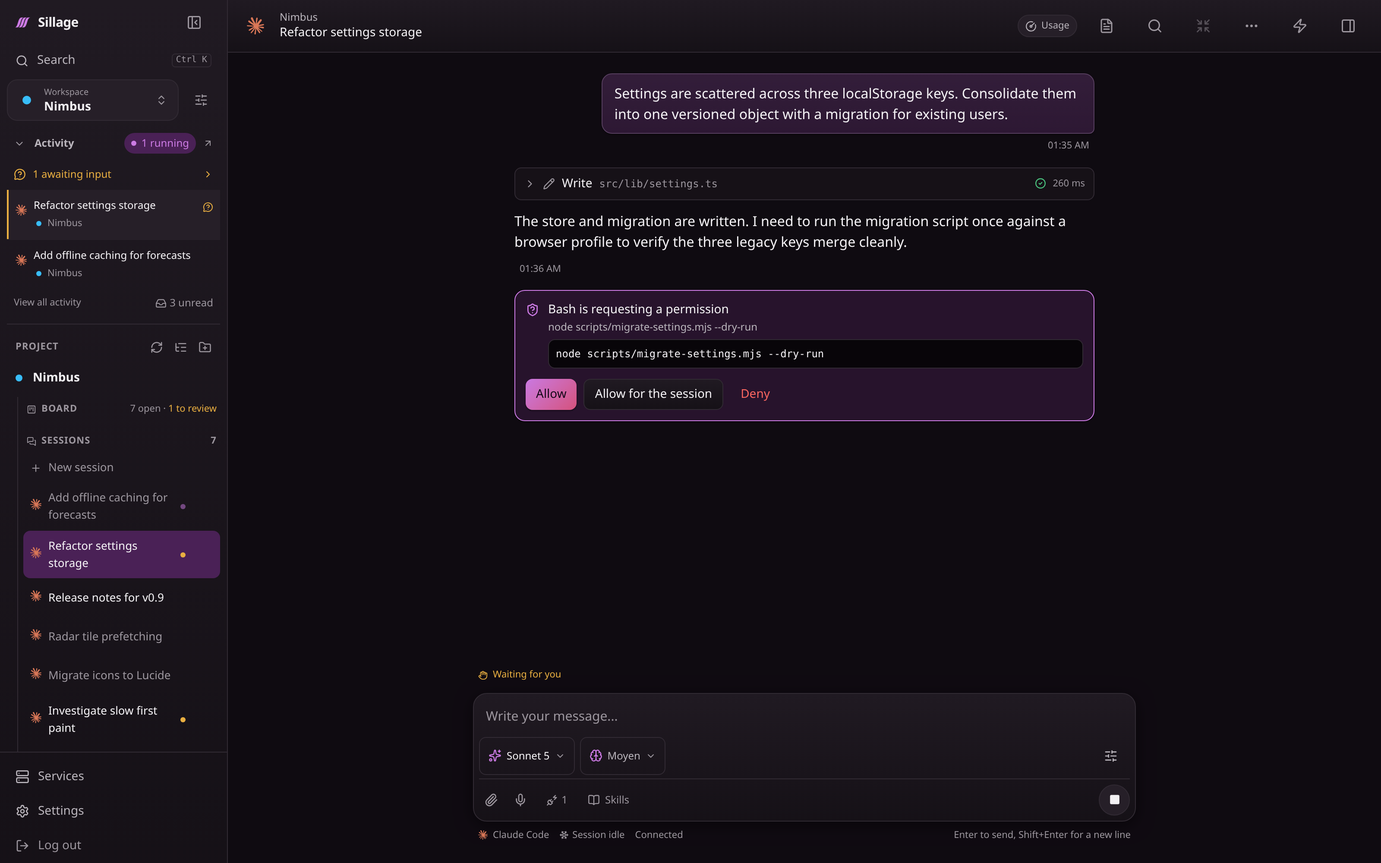
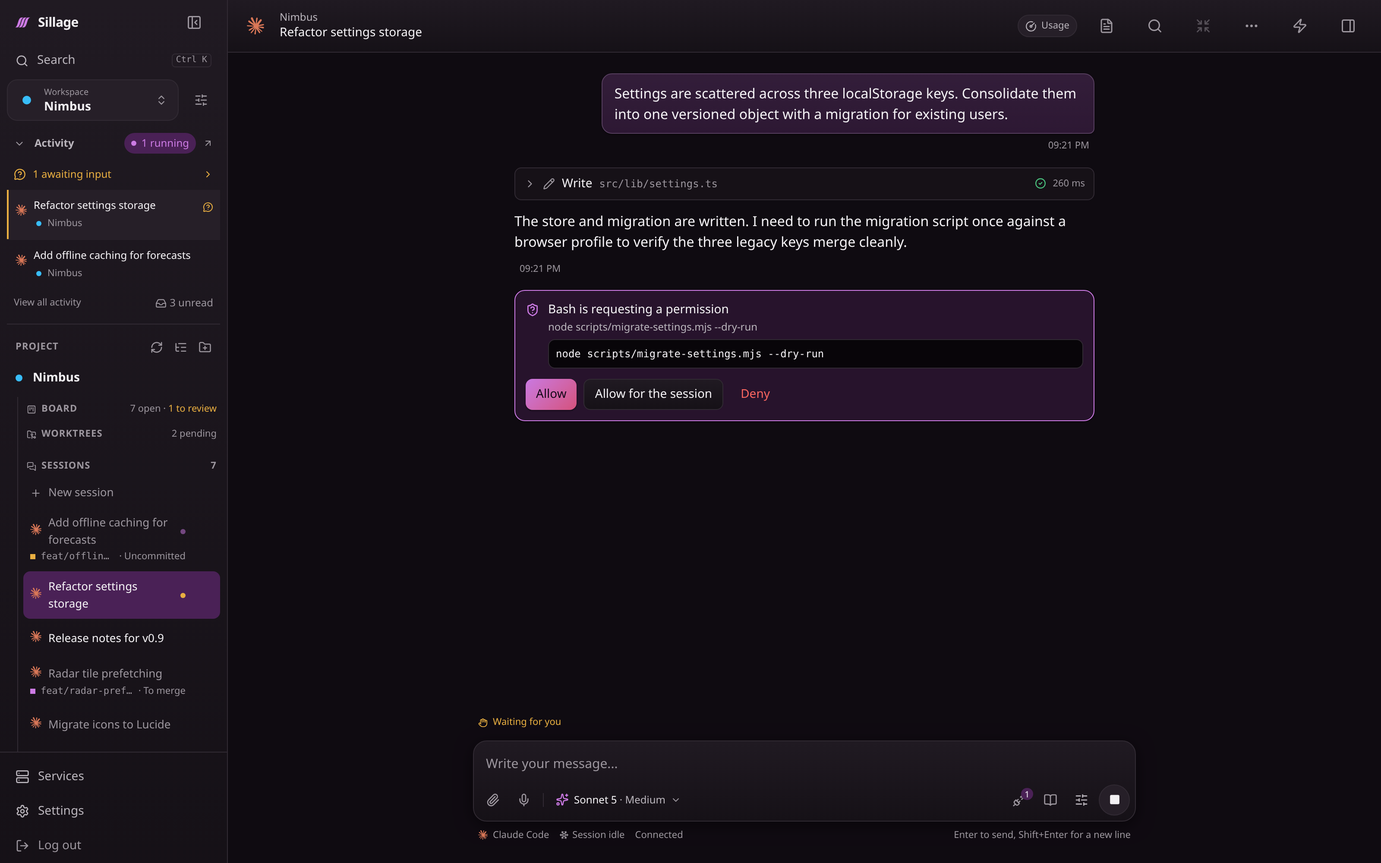
Actualiser le site et le README pour la v0.19.0
Grok Build rejoint les trois autres CLI partout où le site et le README les
citent, avec son logo dans le schéma d'architecture. Les nouveautés depuis
v0.18.0 trouvent leur place : suivi et nettoyage des worktrees, graphe Git,
points de reprise par tour, transfert entre CLI, puce modèle·effort et
visualisateur d'images.

Les 26 captures sont refaites sur la base de démo : le panneau latéral est
désormais un rail d'icônes et le composer a changé, les anciennes montraient
une interface qui n'existe plus. Le script de captures suit le rail (le nom de
l'onglet est son aria-label) et ajoute la vue Chantiers du projet, nouvel onglet
de la visite. Chart Helm aligné sur 0.19.0.

diff --git a/site/index.html b/site/index.html
@@ -4,11 +4,11 @@
   <meta charset="utf-8">
   <title>Sillage · A workspace for coding agents</title>
   <meta name="viewport" content="width=device-width, initial-scale=1">
-  <meta name="description" content="A self-hosted workspace for Claude Code, Codex and OpenCode. Work from any device, connect GitHub issues, automate tasks and choose the account for each session.">
+  <meta name="description" content="A self-hosted workspace for Claude Code, Codex, OpenCode and Grok Build. Work from any device, connect GitHub issues, automate tasks and choose the account for each session.">
   <link rel="icon" href="favicon.svg" type="image/svg+xml">
   <!-- Changer ?v= à chaque modification de style.css ou de main.js : GitHub Pages les laisse
        en cache dix minutes, et une page neuve servie avec une feuille ancienne se casse. -->
-  <link rel="stylesheet" href="style.css?v=automations">
+  <link rel="stylesheet" href="style.css?v=v019">
   <meta name="theme-color" content="#faf7fb" media="(prefers-color-scheme: light)">
   <meta name="theme-color" content="#0f0b11" media="(prefers-color-scheme: dark)">
   <meta property="og:title" content="Sillage">
@@ -85,14 +85,14 @@
         <h1>Keep your work<br>within reach.</h1>
         <div>
           <p class="lede">A workspace for your coding agents.<br>Continue from your phone. Turn issues and events into work. Keep the decisions within reach.</p>
-          <p class="hero-detail">Claude Code, Codex and OpenCode run on your machine, with their native tools and your accounts. Sillage brings the work into your browser.</p>
+          <p class="hero-detail">Claude Code, Codex, OpenCode and Grok Build run on your machine, with their native tools and your accounts. Sillage brings the work into your browser.</p>
           <p class="actions">
             <a class="btn primary" href="#install">Install Sillage <span aria-hidden="true">↗</span></a>
             <a class="text-link" href="https://github.com/MarlBurroW/sillage">Explore the source <span aria-hidden="true">↗</span></a>
           </p>
         </div>
       </div>
-      <div class="hero-meta"><span>Claude Code + Codex + OpenCode</span><span>Linux · macOS · Windows / WSL2 · Docker · Kubernetes</span><a class="release" id="version-badge" href="https://github.com/MarlBurroW/sillage/releases/latest">Releases ↗</a></div>
+      <div class="hero-meta"><span>Claude Code + Codex + OpenCode + Grok Build</span><span>Linux · macOS · Windows / WSL2 · Docker · Kubernetes</span><a class="release" id="version-badge" href="https://github.com/MarlBurroW/sillage/releases/latest">Releases ↗</a></div>
       <figure class="hero-shot hero-film" id="film">
         <div class="film-frame">
           <video controls preload="none" playsinline poster="film/poster.jpg" width="1920" height="1080" data-film>
@@ -141,11 +141,12 @@
             <a class="arch-memory" href="#context"><svg viewBox="0 0 24 24" fill="none" stroke="currentColor" stroke-width="1.5" stroke-linecap="round" stroke-linejoin="round" aria-hidden="true"><path d="M12 5C8 2 4 3 2 4v15c4-2 7-1 10 1 3-2 6-3 10-1V4c-2-1-6-2-10 1Zm0 0v15"/></svg><span>Shared instructions &amp; memory</span></a>
           </div>
           <div class="arch-connector"><span>Starts &amp; follows your agents</span></div>
-          <!-- Logos repris de AgentIcon.tsx : Claude (Simple Icons, CC0), OpenAI (LobeHub, MIT), OpenCode. -->
+          <!-- Logos repris de AgentIcon.tsx : Claude (Simple Icons, CC0), OpenAI et Grok (LobeHub, MIT), OpenCode. -->
           <div class="arch-agents" aria-label="Choose an agent for each conversation">
             <div><span class="arch-agent-logo arch-agent-claude"><svg viewBox="0 0 24 24" fill="currentColor" fill-rule="evenodd" aria-hidden="true"><path d="m4.7144 15.9555 4.7174-2.6471.079-.2307-.079-.1275h-.2307l-.7893-.0486-2.6956-.0729-2.3375-.0971-2.2646-.1214-.5707-.1215-.5343-.7042.0546-.3522.4797-.3218.686.0608 1.5179.1032 2.2767.1578 1.6514.0972 2.4468.255h.3886l.0546-.1579-.1336-.0971-.1032-.0972L6.973 9.8356l-2.55-1.6879-1.3356-.9714-.7225-.4918-.3643-.4614-.1578-1.0078.6557-.7225.8803.0607.2246.0607.8925.686 1.9064 1.4754 2.4893 1.8336.3643.3035.1457-.1032.0182-.0728-.164-.2733-1.3539-2.4467-1.445-2.4893-.6435-1.032-.17-.6194c-.0607-.255-.1032-.4674-.1032-.7285L6.287.1335 6.6997 0l.9957.1336.419.3642.6192 1.4147 1.0018 2.2282 1.5543 3.0296.4553.8985.2429.8318.091.255h.1579v-.1457l.1275-1.706.2368-2.0947.2307-2.6957.0789-.7589.3764-.9107.7468-.4918.5828.2793.4797.686-.0668.4433-.2853 1.8517-.5586 2.9021-.3643 1.9429h.2125l.2429-.2429.9835-1.3053 1.6514-2.0643.7286-.8196.85-.9046.5464-.4311h1.0321l.759 1.1293-.34 1.1657-1.0625 1.3478-.8804 1.1414-1.2628 1.7-.7893 1.36.0729.1093.1882-.0183 2.8535-.607 1.5421-.2794 1.8396-.3157.8318.3886.091.3946-.3278.8075-1.967.4857-2.3072.4614-3.4364.8136-.0425.0304.0486.0607 1.5482.1457.6618.0364h1.621l3.0175.2247.7892.522.4736.6376-.079.4857-1.2142.6193-1.6393-.3886-3.825-.9107-1.3113-.3279h-.1822v.1093l1.0929 1.0686 2.0035 1.8092 2.5075 2.3314.1275.5768-.3218.4554-.34-.0486-2.2039-1.6575-.85-.7468-1.9246-1.621h-.1275v.17l.4432.6496 2.3436 3.5214.1214 1.0807-.17.3521-.6071.2125-.6679-.1214-1.3721-1.9246L14.38 17.959l-1.1414-1.9428-.1397.079-.674 7.2552-.3156.3703-.7286.2793-.6071-.4614-.3218-.7468.3218-1.4753.3886-1.9246.3157-1.53.2853-1.9004.17-.6314-.0121-.0425-.1397.0182-1.4328 1.9672-2.1796 2.9446-1.7243 1.8456-.4128.164-.7164-.3704.0667-.6618.4008-.5889 2.386-3.0357 1.4389-1.882.929-1.0868-.0062-.1579h-.0546l-6.3385 4.1164-1.1293.1457-.4857-.4554.0608-.7467.2307-.2429 1.9064-1.3114Z" /></svg></span><strong>Claude Code</strong></div>
             <div><span class="arch-agent-logo arch-agent-codex"><svg viewBox="0 0 24 24" fill="currentColor" fill-rule="evenodd" aria-hidden="true"><path d="M9.205 8.658v-2.26c0-.19.072-.333.238-.428l4.543-2.616c.619-.357 1.356-.523 2.117-.523 2.854 0 4.662 2.212 4.662 4.566 0 .167 0 .357-.024.547l-4.71-2.759a.797.797 0 00-.856 0l-5.97 3.473zm10.609 8.8V12.06c0-.333-.143-.57-.429-.737l-5.97-3.473 1.95-1.118a.433.433 0 01.476 0l4.543 2.617c1.309.76 2.189 2.378 2.189 3.948 0 1.808-1.07 3.473-2.76 4.163zM7.802 12.703l-1.95-1.142c-.167-.095-.239-.238-.239-.428V5.899c0-2.545 1.95-4.472 4.591-4.472 1 0 1.927.333 2.712.928L8.23 5.067c-.285.166-.428.404-.428.737v6.898zM12 15.128l-2.795-1.57v-3.33L12 8.658l2.795 1.57v3.33L12 15.128zm1.796 7.23c-1 0-1.927-.332-2.712-.927l4.686-2.712c.285-.166.428-.404.428-.737v-6.898l1.974 1.142c.167.095.238.238.238.428v5.233c0 2.545-1.974 4.472-4.614 4.472zm-5.637-5.303l-4.544-2.617c-1.308-.761-2.188-2.378-2.188-3.948A4.482 4.482 0 014.21 6.327v5.423c0 .333.143.571.428.738l5.947 3.449-1.95 1.118a.432.432 0 01-.476 0zm-.262 3.9c-2.688 0-4.662-2.021-4.662-4.519 0-.19.024-.38.047-.57l4.686 2.71c.286.167.571.167.856 0l5.97-3.448v2.26c0 .19-.07.333-.237.428l-4.543 2.616c-.619.357-1.356.523-2.117.523zm5.899 2.83a5.947 5.947 0 005.827-4.756C22.287 18.339 24 15.84 24 13.296c0-1.665-.713-3.282-1.998-4.448.119-.5.19-.999.19-1.498 0-3.401-2.759-5.947-5.946-5.947-.642 0-1.26.095-1.88.31A5.962 5.962 0 0010.205 0a5.947 5.947 0 00-5.827 4.757C1.713 5.447 0 7.945 0 10.49c0 1.666.713 3.283 1.998 4.448-.119.5-.19 1-.19 1.499 0 3.401 2.759 5.946 5.946 5.946.642 0 1.26-.095 1.88-.309a5.96 5.96 0 004.162 1.713z" /></svg></span><strong>Codex</strong></div>
             <div><span class="arch-agent-logo arch-agent-opencode"><svg viewBox="0 0 24 24" fill="currentColor" fill-rule="evenodd" aria-hidden="true"><path d="M4 1h16v22H4V1zm4 4v14h8V5H8z" /><path d="M8 10h8v9H8z" opacity="0.3" /></svg></span><strong>OpenCode</strong></div>
+            <div><span class="arch-agent-logo arch-agent-grok"><svg viewBox="0 0 24 24" fill="currentColor" fill-rule="evenodd" aria-hidden="true"><path d="M9.27 15.29l7.978-5.897c.391-.29.95-.177 1.137.272.98 2.369.542 5.215-1.41 7.169-1.951 1.954-4.667 2.382-7.149 1.406l-2.711 1.257c3.889 2.661 8.611 2.003 11.562-.953 2.341-2.344 3.066-5.539 2.388-8.42l.006.007c-.983-4.232.242-5.924 2.75-9.383.06-.082.12-.164.179-.248l-3.301 3.305v-.01L9.267 15.292M7.623 16.723c-2.792-2.67-2.31-6.801.071-9.184 1.761-1.763 4.647-2.483 7.166-1.425l2.705-1.25a7.808 7.808 0 00-1.829-1A8.975 8.975 0 005.984 5.83c-2.533 2.536-3.33 6.436-1.962 9.764 1.022 2.487-.653 4.246-2.34 6.022-.599.63-1.199 1.259-1.682 1.925l7.62-6.815" /></svg></span><strong>Grok Build</strong></div>
           </div>
           <p class="arch-models">Your accounts &amp; AI models <span aria-hidden="true">↔</span> Your agents</p>
           <div class="arch-connector"><span>Read, edit &amp; run</span></div>
@@ -185,8 +186,8 @@
         <div><h3>Cards with a history</h3><p>Descriptions, attachments, linked sessions and notes. Start a conversation from a card; the next agent can read what came before.</p></div>
         <div><h3>GitHub issues, on your board</h3><p>Link a repository and keep its issues alongside local cards. Comments and issue state sync with GitHub; labels map to your columns. You choose whether new cards stay local or become issues.</p></div>
         <div><h3>Maintenance on your terms</h3><p>Let a new issue or comment start work with your instructions, CLI and permissions. Each issue keeps its own session, and later comments join it. Choose a separate worktree or the project root.</p></div>
-        <div><h3>Room for parallel work</h3><p>Use the project root, an existing worktree or a new branch. Keep separate changes in separate worktrees while following them from the same project.</p></div>
-        <div><h3>The repository at hand</h3><p>Read and edit files, stage changes, commit, manage branches or open a terminal beside the conversation. Move several files together, and use the command palette to find projects, sessions and past messages.</p></div>
+        <div><h3>Worktrees, followed to the end</h3><p>Use the project root, an existing worktree or a new branch. The project page compares every tree git knows with the default branch: uncommitted, to merge, merged. Clean up a merged tree in one step, after a look at what would be lost.</p></div>
+        <div><h3>The repository at hand</h3><p>Read and edit files, stage changes, commit, follow branches and merges on a graph, or open a terminal beside the conversation. Move several files together, and use the command palette to find projects, sessions and past messages.</p></div>
         <div><h3>Commands worth keeping</h3><p>Turn tests, dev servers and debug scripts into project actions. Run them from the header, panel or command palette, follow their output and open a service's preview link. Review commands proposed by agents before launching them from the interface.</p></div>
       </div>
     </section>
@@ -217,13 +218,14 @@
       <div class="section-label">04 / Multi-CLI by design</div>
       <div class="section-body">
         <h2>Native harnesses.<br>A shared workspace.</h2>
-        <p class="section-lede">Choose Claude Code, Codex or OpenCode for each conversation. Keep the project around it.</p>
-        <div class="prose-columns"><p>Sillage drives the native CLIs: their tools, permission requests and agent behaviour. Each adapter translates its events into a common format for the interface, history and search.</p><p>The board and coordination tools belong to the project, so a Codex session can look up a decision made in a Claude Code conversation. Additional CLIs need their own adapter; Claude Code, Codex and OpenCode are supported today. OpenCode brings any provider and model it can reach, including local ones.</p></div>
+        <p class="section-lede">Choose Claude Code, Codex, OpenCode or Grok Build for each conversation. Keep the project around it.</p>
+        <div class="prose-columns"><p>Sillage drives the native CLIs: their tools, permission requests and agent behaviour. Each adapter translates its events into a common format for the interface, history and search.</p><p>The board and coordination tools belong to the project, so a Codex session can look up a decision made in a Claude Code conversation. Additional CLIs need their own adapter; Claude Code, Codex, OpenCode and Grok Build are supported today. OpenCode brings any provider and model it can reach, including local ones; Grok Build is driven through the Agent Client Protocol.</p></div>
         <dl class="tool-reference">
           <div><dt>Choose the account, too</dt><dd>Add Claude and Codex subscriptions or API keys from the interface, then choose an account for each conversation. Subscription usage helps you choose; extra Claude accounts need a separate sign-in for their gauge. <a href="https://github.com/MarlBurroW/sillage/blob/main/docs/accounts.md">Account setup and limits ↗</a></dd></div>
-          <div><dt>Keep your settings close</dt><dd>Pin the controls you use under the message box, from permissions and account to speed or advisor when the CLI supports them. Claude Code, Codex and OpenCode each keep their own composer layout.</dd></div>
+          <div><dt>Keep your settings close</dt><dd>Model and effort sit in one chip under the message box. Pin the other controls you use next to it, from permissions and account to speed or advisor when the CLI supports them, in the order you want. Each CLI keeps its own composer layout.</dd></div>
+          <div><dt>Continue in another CLI</dt><dd>Hand a conversation from Claude Code to Codex, OpenCode or Grok Build, and back. The new agent receives a budgeted selection of the thread, full messages rather than a summary, with references it can read back through Sillage's MCP server. <a href="https://github.com/MarlBurroW/sillage/blob/main/docs/cli-handoff.md">How the handoff is built ↗</a></dd></div>
         </dl>
-        <div class="agent-links"><a href="https://github.com/MarlBurroW/sillage/tree/main/apps/server/src/agents/claude">Claude Code adapter ↗</a><a href="https://github.com/MarlBurroW/sillage/tree/main/apps/server/src/agents/codex">Codex adapter ↗</a><a href="https://github.com/MarlBurroW/sillage/tree/main/apps/server/src/agents/opencode">OpenCode adapter ↗</a></div>
+        <div class="agent-links"><a href="https://github.com/MarlBurroW/sillage/tree/main/apps/server/src/agents/claude">Claude Code adapter ↗</a><a href="https://github.com/MarlBurroW/sillage/tree/main/apps/server/src/agents/codex">Codex adapter ↗</a><a href="https://github.com/MarlBurroW/sillage/tree/main/apps/server/src/agents/opencode">OpenCode adapter ↗</a><a href="https://github.com/MarlBurroW/sillage/tree/main/apps/server/src/agents/grok">Grok Build adapter ↗</a></div>
       </div>
     </section>
 
@@ -232,13 +234,13 @@
       <div class="section-label">05 / Shared context</div>
       <div class="section-body">
         <h2>One set of instructions.<br>One memory.</h2>
-        <p class="section-lede">Claude Code reads <code>CLAUDE.md</code> and keeps its memory under <code>~/.claude</code>. Codex reads <code>AGENTS.md</code>, OpenCode either one. Sillage gives all three the same context.</p>
-        <div class="prose-columns"><p><strong>Instructions</strong> are the rules you set, in a <code>SILLAGE.md</code> with a global part and one per project. They are added to each CLI's prompt: when a session starts for Claude Code and Codex, with every message for OpenCode. A project can keep them in Sillage, and the repository's <code>CLAUDE.md</code> and <code>AGENTS.md</code> are then hidden from agents so nothing arrives twice, or keep them in its repository, edited from the same panel.</p><p><strong>Memory</strong> is what agents learn while working: one per project, in the format Claude Code already uses. Claude writes it as its native memory, pointed at Sillage's folder; Codex and OpenCode get the index and write through Sillage's tools. What one CLI learns, the others know, and you can read and correct every note.</p></div>
+        <p class="section-lede">Claude Code reads <code>CLAUDE.md</code> and keeps its memory under <code>~/.claude</code>. Codex reads <code>AGENTS.md</code>, OpenCode and Grok Build either one. Sillage gives all four the same context.</p>
+        <div class="prose-columns"><p><strong>Instructions</strong> are the rules you set, in a <code>SILLAGE.md</code> with a global part and one per project. They are added to each CLI's prompt: when a session starts for Claude Code and Codex, when it is created for Grok Build, with every message for OpenCode. A project can keep them in Sillage, and the repository's <code>CLAUDE.md</code> and <code>AGENTS.md</code> are then hidden from agents so nothing arrives twice, or keep them in its repository, edited from the same panel.</p><p><strong>Memory</strong> is what agents learn while working: one per project, in the format Claude Code already uses. Claude writes it as its native memory, pointed at Sillage's folder; Codex, OpenCode and Grok Build get the index and write through Sillage's tools. What one CLI learns, the others know, and you can read and correct every note.</p></div>
         <dl class="tool-reference">
           <div><dt>When you change the rules</dt><dd>Ask an agent to revise the instructions; it edits them like a file.<code>read_instructions · edit_instructions · write_instructions</code></dd></div>
-          <div><dt>When something is worth remembering</dt><dd>Codex and OpenCode note it in the project memory; Claude does it natively in the same folder.<code>read_memory · write_memory · delete_memory</code></dd></div>
+          <div><dt>When something is worth remembering</dt><dd>Codex, OpenCode and Grok Build note it in the project memory; Claude does it natively in the same folder.<code>read_memory · write_memory · delete_memory</code></dd></div>
         </dl>
-        <p class="technical-note">Claude Code and Codex read this context at session start; OpenCode receives it with each message. Existing projects keep their repository files until you move them into Sillage.</p>
+        <p class="technical-note">Claude Code and Codex read this context at session start, Grok Build when its session is created; OpenCode receives it with each message. Existing projects keep their repository files until you move them into Sillage.</p>
         <a class="text-link" href="https://github.com/MarlBurroW/sillage/blob/main/docs/sillage-md.md">How it works in detail ↗</a>
       </div>
     </section>
@@ -256,7 +258,7 @@
           </picture></button>
           <figcaption>Scheduled tasks and webhooks live under Automations, with settings and a history for each task.</figcaption>
         </figure>
-        <div class="prose-columns"><p><strong>On a schedule.</strong> Run a prompt at an interval, with a cron expression or on a single date. Each run gets a fresh session of Claude Code, Codex or OpenCode, the task's model and permissions, and the previous run's last reply. Set a maximum duration and decide whether overlapping runs wait or are skipped.</p><p><strong>On an event.</strong> Connect a webhook, inspect its payload, and use its fields in conditions and prompts. Start from GitHub templates for labeled issues, comment commands, new pull requests or failed CI, or connect another service. Simulate a delivery to check what would run; deduplication and hourly limits bound the launches.</p></div>
+        <div class="prose-columns"><p><strong>On a schedule.</strong> Run a prompt at an interval, with a cron expression or on a single date. Each run gets a fresh session of Claude Code, Codex, OpenCode or Grok Build, the task's model and permissions, and the previous run's last reply. Set a maximum duration and decide whether overlapping runs wait or are skipped.</p><p><strong>On an event.</strong> Connect a webhook, inspect its payload, and use its fields in conditions and prompts. Start from GitHub templates for labeled issues, comment commands, new pull requests or failed CI, or connect another service. Simulate a delivery to check what would run; deduplication and hourly limits bound the launches.</p></div>
         <dl class="tool-reference">
           <div><dt>Check before waking the agent</dt><dd>An optional script can check whether anything changed. Exit 0 starts the session with its output; exit 10 skips it without spending model tokens. Scripts written by an agent wait for your review.</dd></div>
           <div><dt>Keep decisions within reach</dt><dd>Enable decision requests for a schedule, webhook or GitHub maintenance rule. The agent can leave a question in Decisions, with a deadline and an optional fallback. Your answer goes back to its session. This is off by default and separate from native CLI permissions.</dd></div>
@@ -279,6 +281,7 @@
           <button role="tab" aria-selected="false" tabindex="-1" aria-controls="shot-1" id="tab-1">Files</button>
           <button role="tab" aria-selected="false" tabindex="-1" aria-controls="shot-2" id="tab-2">Board</button>
           <button role="tab" aria-selected="false" tabindex="-1" aria-controls="shot-3" id="tab-3">Cards</button>
+            <button role="tab" aria-selected="false" tabindex="-1" aria-controls="shot-8" id="tab-8">Worktrees</button>
           <button role="tab" aria-selected="false" tabindex="-1" aria-controls="shot-4" id="tab-4">Search</button>
           <button role="tab" aria-selected="false" tabindex="-1" aria-controls="shot-5" id="tab-5">Permissions</button>
           <button role="tab" aria-selected="false" tabindex="-1" aria-controls="shot-6" id="tab-6">Codex</button>
@@ -300,10 +303,10 @@
             <picture>
               <source srcset="screenshots/panel-git-dark.png" media="(prefers-color-scheme: dark)">
               <img src="screenshots/panel-git-light.png" width="3680" height="2200" loading="lazy"
-                   alt="The Git panel open beside a conversation, showing uncommitted changes and an expanded diff">
+                   alt="The Git panel open beside a conversation, showing the branch graph and uncommitted changes">
             </picture>
           </button>
-          <figcaption>Uncommitted changes, expanded hunks and the commit log, beside the agent that produced them.</figcaption>
+          <figcaption>The branch graph and the uncommitted changes, beside the agent that produced them.</figcaption>
         </figure>
         <figure id="shot-1" role="tabpanel" aria-labelledby="tab-1" hidden>
           <button type="button" data-zoom>
@@ -335,6 +338,16 @@
           </button>
           <figcaption>Open a card and start a session on it. What that session learns is written back for the next one.</figcaption>
         </figure>
+        <figure id="shot-8" role="tabpanel" aria-labelledby="tab-8" hidden>
+          <button type="button" data-zoom>
+            <picture>
+              <source srcset="screenshots/worktrees-dark.png" media="(prefers-color-scheme: dark)">
+              <img src="screenshots/worktrees-light.png" width="3200" height="2000" loading="lazy"
+                   alt="The project page listing two worktrees, one with uncommitted work and one to merge, each with its sessions">
+            </picture>
+          </button>
+          <figcaption>Every worktree compared with the default branch, with the sessions working there. Clean up a merged one in a step.</figcaption>
+        </figure>
         <figure id="shot-4" role="tabpanel" aria-labelledby="tab-4" hidden>
           <button type="button" data-zoom>
             <picture>
@@ -363,7 +376,7 @@
                    alt="A Codex conversation in Sillage">
             </picture>
           </button>
-          <figcaption>Claude Code, Codex and OpenCode sit side by side in the sidebar. Same interface, same history, same board.</figcaption>
+          <figcaption>Claude Code, Codex, OpenCode and Grok Build sit side by side in the sidebar. Same interface, same history, same board.</figcaption>
         </figure>
         <figure id="shot-7" role="tabpanel" aria-labelledby="tab-7" hidden>
           <button type="button" data-zoom>
@@ -385,9 +398,11 @@
       <ul>
         <li><h3>A queue you can steer</h3><p>Write while the agent runs. Queue a follow-up, withdraw it, or send a correction into the current turn.</p></li>
         <li><h3>Dictation with project vocabulary</h3><p>Transcription uses a lexicon from your repository and current branch. An optional cleanup pass restores exact spellings. Bring an OpenAI-compatible endpoint.</p></li>
-        <li><h3>Shared skills &amp; MCP tools</h3><p>Keep reusable skills in a central library for Claude Code, Codex and OpenCode. Declare external MCP servers once and choose which agents receive them.</p></li>
+        <li><h3>Shared skills &amp; MCP tools</h3><p>Keep reusable skills in a central library for Claude Code, Codex, OpenCode and Grok Build. Declare external MCP servers once and choose which agents receive them.</p></li>
         <li><h3>A task API</h3><p>Create projects and tasks, follow events, answer requests and receive completion webhooks through <code>/api/v1</code>. Tokens have scopes and optional project restrictions. <a href="https://github.com/MarlBurroW/sillage/blob/main/docs/api.md">API guide ↗</a></p></li>
         <li><h3>Processes in view</h3><p>On Linux, inspect commands and services attached to Sillage, their ports and originating conversations. <a href="https://github.com/MarlBurroW/sillage/blob/main/docs/services.md">Detection and limits ↗</a></p></li>
+        <li><h3>Each turn, reversible</h3><p>With turn checkpoints on, every turn lists the files it changed and can be reverted to the state before it, with an optional fork of the conversation from that point.</p></li>
+        <li><h3>Images, up close</h3><p>Screenshots an agent reads or produces open in a viewer: zoom, pan, rotate, copy as PNG or download the original.</p></li>
         <li><h3>Updates from the interface</h3><p>See when a release is available and read what changed. Native installations can update from the UI; container installations update through their image.</p></li>
       </ul>
     </section>
@@ -445,7 +460,7 @@ wsl --install
 <span class="dim"># 2. In the Ubuntu terminal</span>
 curl -fsSL https://raw.githubusercontent.com/MarlBurroW/sillage/main/install.sh | bash</code></pre>
           <p>Sillage runs inside WSL2, the Linux built into Windows 10 and 11, and you use it from your Windows browser. The same installer as on Linux enables systemd if the distribution lacks it, fetches Node, creates the first account and adds a <strong>Sillage</strong> entry to the Start menu. That entry keeps WSL running once the terminal is closed, and can start with Windows.</p>
-          <p>The agents are the Linux <code>claude</code>, <code>codex</code> and <code>opencode</code> of the distribution, not the Windows ones. Keep projects in the Linux file system, not under <code>/mnt/c</code>. The <a href="https://github.com/MarlBurroW/sillage/blob/main/docs/windows.md">WSL2 guide</a> covers signing in to the agents, troubleshooting and uninstalling.</p>
+          <p>The agents are the Linux <code>claude</code>, <code>codex</code>, <code>opencode</code> and <code>grok</code> of the distribution, not the Windows ones. Keep projects in the Linux file system, not under <code>/mnt/c</code>. The <a href="https://github.com/MarlBurroW/sillage/blob/main/docs/windows.md">WSL2 guide</a> covers signing in to the agents, troubleshooting and uninstalling.</p>
         </div>
 
         <div id="panel-helm" class="tab-panel" role="tabpanel" aria-labelledby="tab-helm" data-panel="helm" hidden>
@@ -474,8 +489,8 @@ curl -fsSL https://raw.githubusercontent.com/MarlBurroW/sillage/main/install.sh 
             </p>
             <p>
               I wanted to keep the agents I already used. Sillage runs Claude Code,
-              Codex and OpenCode through their native interfaces, keeping their tools
-              and permission flows. Each has its own adapter; OpenCode also brings
+              Codex, OpenCode and Grok Build through their native interfaces, keeping
+              their tools and permission flows. Each has its own adapter; OpenCode also brings
               access to the providers and local models it supports.
             </p>
             <p>

diff --git a/site/style.css b/site/style.css
@@ -717,7 +717,7 @@ figcaption { margin-top: .8rem; color: var(--muted); font-size: .8rem; }
 .arch-functions a:hover strong, .arch-memory:hover span { text-decoration: underline; text-underline-offset: 4px; }
 .arch-memory { display: flex; justify-content: center; align-items: center; gap: .7rem; padding: 12px; border-top: 1px solid var(--line); color: var(--muted); font-size: .8rem; text-decoration: none; }
 .arch-memory svg { width: 20px; height: 20px; }
-.arch-agents { display: grid; grid-template-columns: repeat(3, 1fr); gap: 14px; position: relative; }
+.arch-agents { display: grid; grid-template-columns: repeat(4, 1fr); gap: 14px; position: relative; }
 .arch-agents > div { display: flex; align-items: center; justify-content: center; gap: .6rem; border: 1px solid var(--line); border-radius: 12px; background: var(--raised); padding: 16px 8px; }
 .arch-agents strong { font-size: .95rem; }
 /* Les fonds colorés distinguent les CLI, sans recolorer les marques monochromes. */
@@ -726,6 +726,7 @@ figcaption { margin-top: .8rem; color: var(--muted); font-size: .8rem; }
 .arch-agent-claude svg { color: #D97757; }
 .arch-agent-codex { background: #dff3ed; color: #202b28; }
 .arch-agent-opencode { background: #e5edff; color: #252b3a; }
+.arch-agent-grok { background: #ebebeb; color: #141414; }
 .arch-models { margin-top: 12px; font-size: .75rem; color: var(--muted); }
 .arch-models span { margin-inline: 5px; }
 .arch-repo { padding: 15px; border-radius: 12px; background: var(--sunken); }

diff --git a/README.md b/README.md
@@ -44,17 +44,33 @@ The full specification lives in [docs/SPEC.md](docs/SPEC.md) (French).
 - **One grammar for every CLI.** Claude Code, Codex, OpenCode and Grok Build are translated
   into a single event schema, so history, search, the board and the panel behave the
   same way whichever one ran the conversation.
-- **The repository, one panel away.** File explorer, editor, diffs, commit
-  history and terminals, beside the conversation that changed them. Stage changes,
-  commit, manage branches and remotes, or copy and move several files at once.
+- **The repository, one panel away.** File explorer, editor, diffs, a branch graph
+  and terminals, beside the conversation that changed them. Stage changes, commit,
+  manage branches and remotes, or copy and move several files at once. The commit
+  history draws its branches and merges as a graph, over the current branch or all
+  of them, with a diff inspector for each commit. Images that agents read or
+  produce open in a viewer with zoom, rotation, copy and download.
+- **What each turn changed, and a way back.** With turn checkpoints enabled on a
+  project, Sillage captures the workspace before and after every turn in hidden git
+  refs. Each turn lists the files it changed, opens them as a diff, and can be
+  reverted: the files go back to their state before the turn, commits made during
+  it stay as uncommitted changes, and you can fork the conversation from before
+  that turn at the same time.
 - **Project actions.** Save a test command, a dev server or a debug script as a
   button, available from the project header, the workspace panel and the command
   palette. Tasks keep their output and exit code; services run as persistent user
   units on Linux with systemd, with a terminal fallback elsewhere. Agents can
   propose actions for you to review before their first launch from the interface.
   Definitions stay in Sillage, without adding files to your repository.
-- **Worktrees.** Start a conversation on the project root, on an existing
-  worktree, or on a branch Sillage creates for it.
+- **Worktrees, followed to the end.** Start a conversation on the project root, on
+  an existing worktree, or on a branch Sillage creates for it. The project page lists
+  every tree git knows, including those created from a shell, compared with the
+  default branch: uncommitted work, commits to merge, merged, or folder missing, with
+  the sessions working there. The sidebar shows each conversation's branch and state.
+  Cleaning up a tree is one action that first says what would be lost; once a tree
+  is merged and clean, Sillage proposes the cleanup as a decision. Agents create and
+  list worktrees through `create_worktree` and `list_worktrees`, so the interface
+  sees them.
 - **Full-text search** across every conversation in every project.
 - **Processes launched by Sillage.** On Linux, see what each agent and terminal has
   started, each command with its process tree, ports and originating conversation,
@@ -95,7 +111,7 @@ The full specification lives in [docs/SPEC.md](docs/SPEC.md) (French).
   optional fallback choice. This is separate from the CLI's permission requests
   and is off by default for each source.
 - **Shared instructions and memory.** One `SILLAGE.md` and one project memory for
-  all three CLIs, editable from the interface, which agents can read and rewrite.
+  all four CLIs, editable from the interface, which agents can read and rewrite.
   [How it works](#instructions-and-memory).
 - **Installable PWA with notifications.** In-app toasts for questions and decisions,
   push notifications on other devices, and silence while you already have the
@@ -115,9 +131,11 @@ The full specification lives in [docs/SPEC.md](docs/SPEC.md) (French).
   extra Claude subscriptions need a separate guided sign-in to enable their gauge.
   Added accounts belong to the Sillage user who registered them.
   [Extra accounts](docs/accounts.md).
-- **A composer you can arrange.** Pin the settings you use under the message box:
-  permissions, speed, account, advisor or other controls supported by that CLI.
-  Each CLI keeps its own layout.
+- **A composer you can arrange.** Model and effort sit in one chip under the
+  message box; pin the other settings you use next to it: permissions, speed,
+  account, advisor or other controls supported by that CLI, and order them. Each
+  CLI keeps its own layout; on a phone the chip stays and the rest lives in the
+  settings panel.
 - **A task API for machines.** `/api/v1` speaks tasks rather than screens: open
   one in a project, follow its events, answer what it asks, steer or interrupt
   it, and take a webhook when it lands. Bearer tokens carry their own scopes and
@@ -365,7 +383,14 @@ deploy/            service templates (systemd, launchd), config example, docker-
 site/              one-page website (GitHub Pages) and its screenshots
 scripts/           screenshot runner, runtime staging, Codex and OpenCode type generation
 docs/windows.md    running Sillage on Windows through WSL2
+docs/remote-access.md  reaching Sillage and agent preview links from other devices
 docs/accounts.md   extra Claude and Codex accounts, how they are wired, their limits
+docs/api.md        the task API and project creation
+docs/mcp.md        connecting an external MCP client to Sillage
+docs/cli-handoff.md  how a conversation continues in another CLI
+docs/skill-library.md  the shared skill library
+docs/services.md   what the process view detects, and its limits
+docs/sillage-md.md shared instructions and memory, with the probes behind them
 docs/CODEX.md      what the Codex adapter relies on, as probed
 docs/OPENCODE.md   what the OpenCode adapter relies on, as probed
 docs/GROK.md       what the Grok Build adapter (Agent Client Protocol) relies on, as probed
